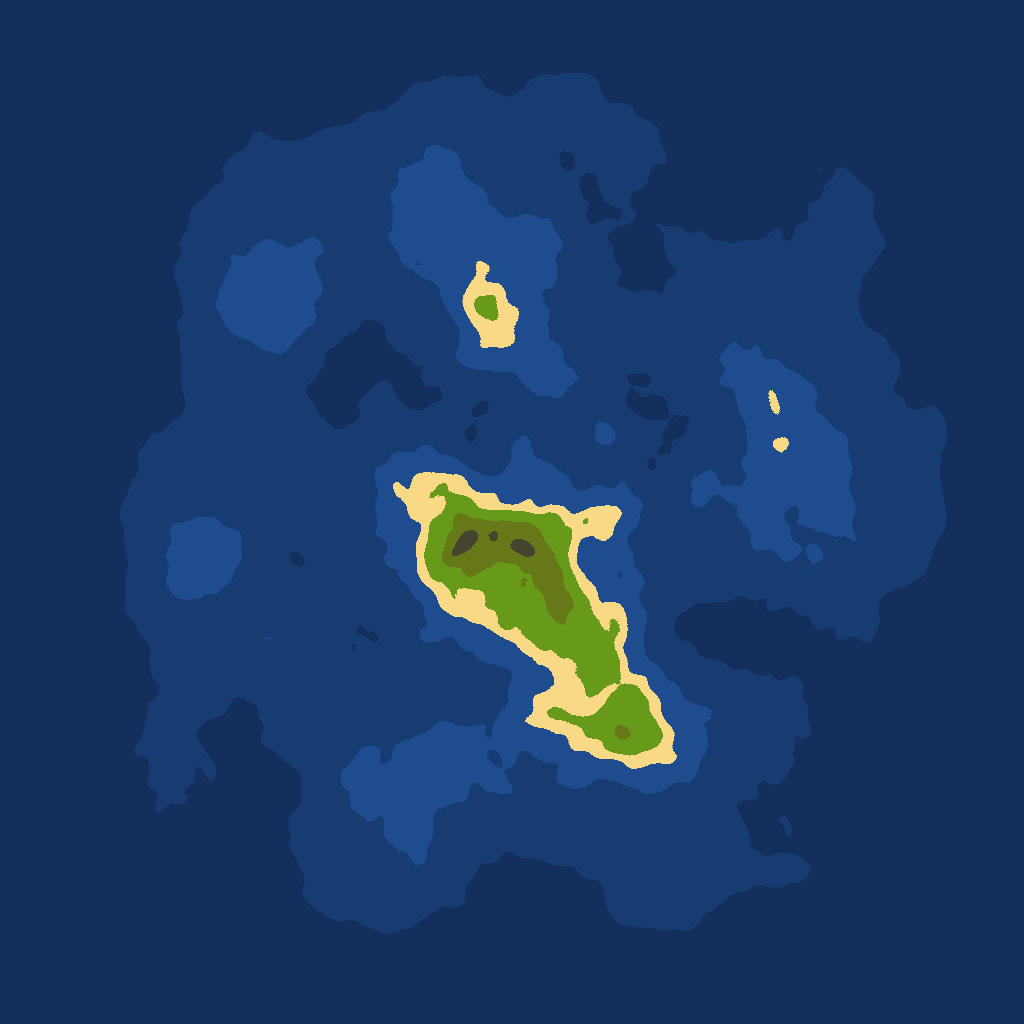
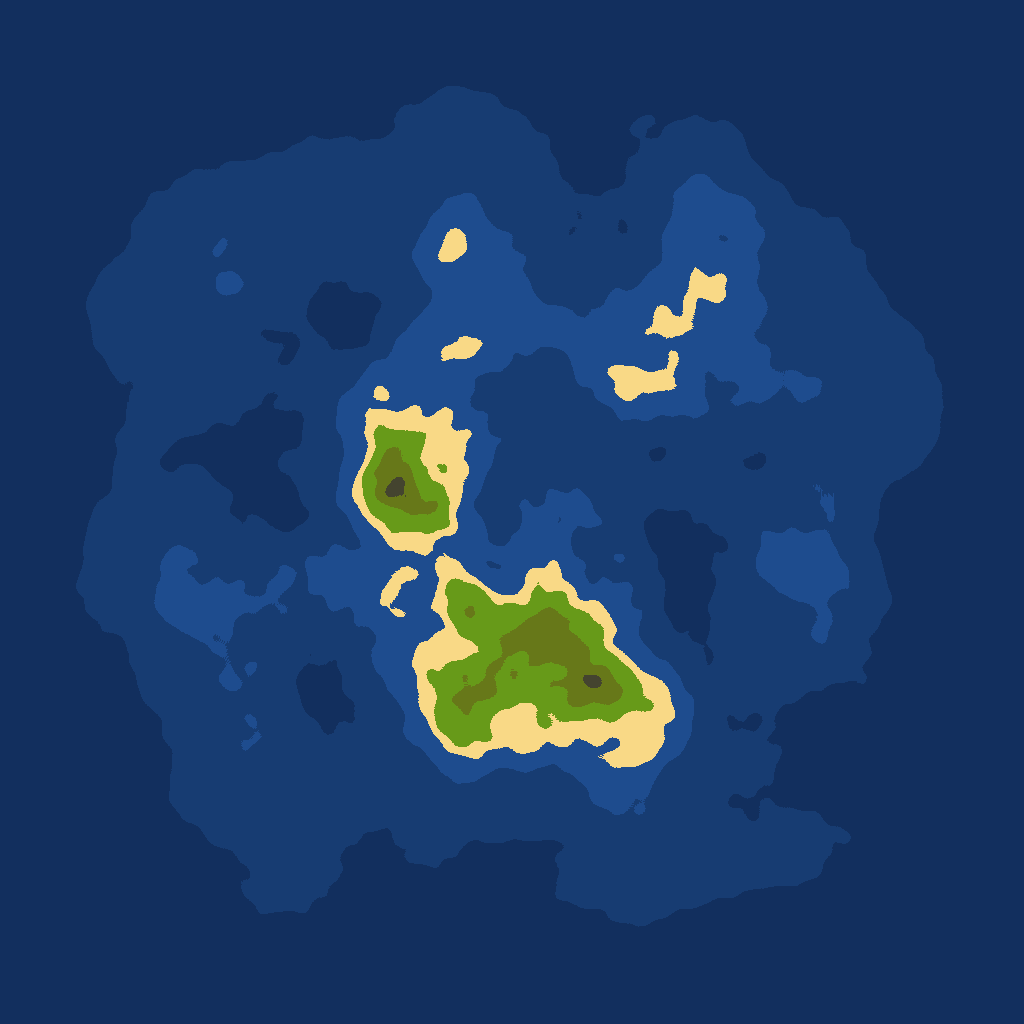
work on scaling

Changed region(s): [[0.125, 0.125, 0.8438, 0.8438], [0.1875, 0.2188, 0.3125, 0.3438]]

diff --git a/island_generator_interactive.py b/island_generator_interactive.py
@@ -1,0 +1,100 @@
+from tkinter import *
+from noise import snoise2
+import math
+from random import randint
+
+SEED = randint(0, 1024)
+print("SEED:", SEED)
+
+OCTAVES = 3
+PERSISTENCE = 0.3
+LACUNARITY = 3.0
+IMG_SIZE = 256
+IMG_SCALE = 2
+LANDSCAPE_SCALE = 0.1
+FREQUENCY = IMG_SIZE * LANDSCAPE_SCALE * OCTAVES
+
+DEEP_OCEAN = "#122F5E"
+MID_OCEAN = "#173C72"
+SHALLOW_OCEAN = "#1E4C8E"
+BEACH = "#F9D986"
+LOWLANDS = "#679A19"
+HIGHLANDS = "#677819"
+MOUNTAIN = "#44442F"
+SNOW = "#F0F0F0"
+
+
+# recieves heightmap. an array of elements 0-255
+# returns array of RGB tuples
+def islandify(heightmap):
+    island = [[0] * IMG_SIZE for i in range(IMG_SIZE)]
+    for x in range(len(heightmap)):
+        for y in range(len(heightmap)):
+            height = heightmap[x][y]
+            if height < 48:
+                island[x][y] = DEEP_OCEAN
+            elif height < 96:
+                island[x][y] = MID_OCEAN
+            elif height < 128:
+                island[x][y] = SHALLOW_OCEAN
+            elif height < 145:
+                island[x][y] = BEACH
+            elif height < 170:
+                island[x][y] = LOWLANDS
+            elif height < 190:
+                island[x][y] = HIGHLANDS
+            elif height < 210:
+                island[x][y] = MOUNTAIN
+            else:
+                island[x][y] = SNOW
+    return island
+
+
+def fallout_curve(x, y):
+    return math.sin(math.pi*(x/IMG_SIZE))*math.sin(math.pi*(y/IMG_SIZE))
+
+
+def generate_heightmap():
+    noise_array = [[0] * IMG_SIZE for i in range(IMG_SIZE)]
+    for i in range(IMG_SIZE):
+        for j in range(IMG_SIZE):
+            noise_array[i][j] = int(snoise2(i / FREQUENCY, j / FREQUENCY,
+                                    OCTAVES, PERSISTENCE, LACUNARITY,
+                                    base=SEED) * 127 + 128) * fallout_curve(i,j)
+    return noise_array
+
+
+def draw_image(img, canvas):
+    global newimg
+    pixels = islandify(generate_heightmap())
+    newimg = PhotoImage(width=IMG_SIZE, height=IMG_SIZE)
+    for x in range(IMG_SIZE):
+        for y in range(IMG_SIZE):
+            img.put(pixels[x][y], (x, y))
+    newimg.zoom(IMG_SCALE)
+    if startimg is not None:
+        canvas.itemconfigure(startimg, image=newimg)
+    # canvas.create_image((IMG_SIZE*IMG_SCALE/2, IMG_SIZE*IMG_SCALE/2), image=newimg)
+
+
+startimg = None
+window = Tk()
+canvas = Canvas(window, width=IMG_SIZE*IMG_SCALE, height=IMG_SIZE*IMG_SCALE)
+canvas.pack()
+img = PhotoImage(width=IMG_SIZE, height=IMG_SIZE)
+pixels = islandify(generate_heightmap())
+draw_image(img, canvas)
+img = img.zoom(IMG_SCALE)
+startimg = canvas.create_image((IMG_SIZE*IMG_SCALE/2, IMG_SIZE*IMG_SCALE/2), image=img)
+
+
+updateButton = Button(window, text="Update", command=lambda: draw_image(img, canvas))
+updateButton.pack(side=RIGHT, padx=5, pady=5)
+slide = Scale(window, from_=0, to=100, orient=HORIZONTAL)
+slide.pack(side=LEFT)
+
+
+while True:
+    window.update_idletasks()
+    window.update()
+    SEED = slide.get()
